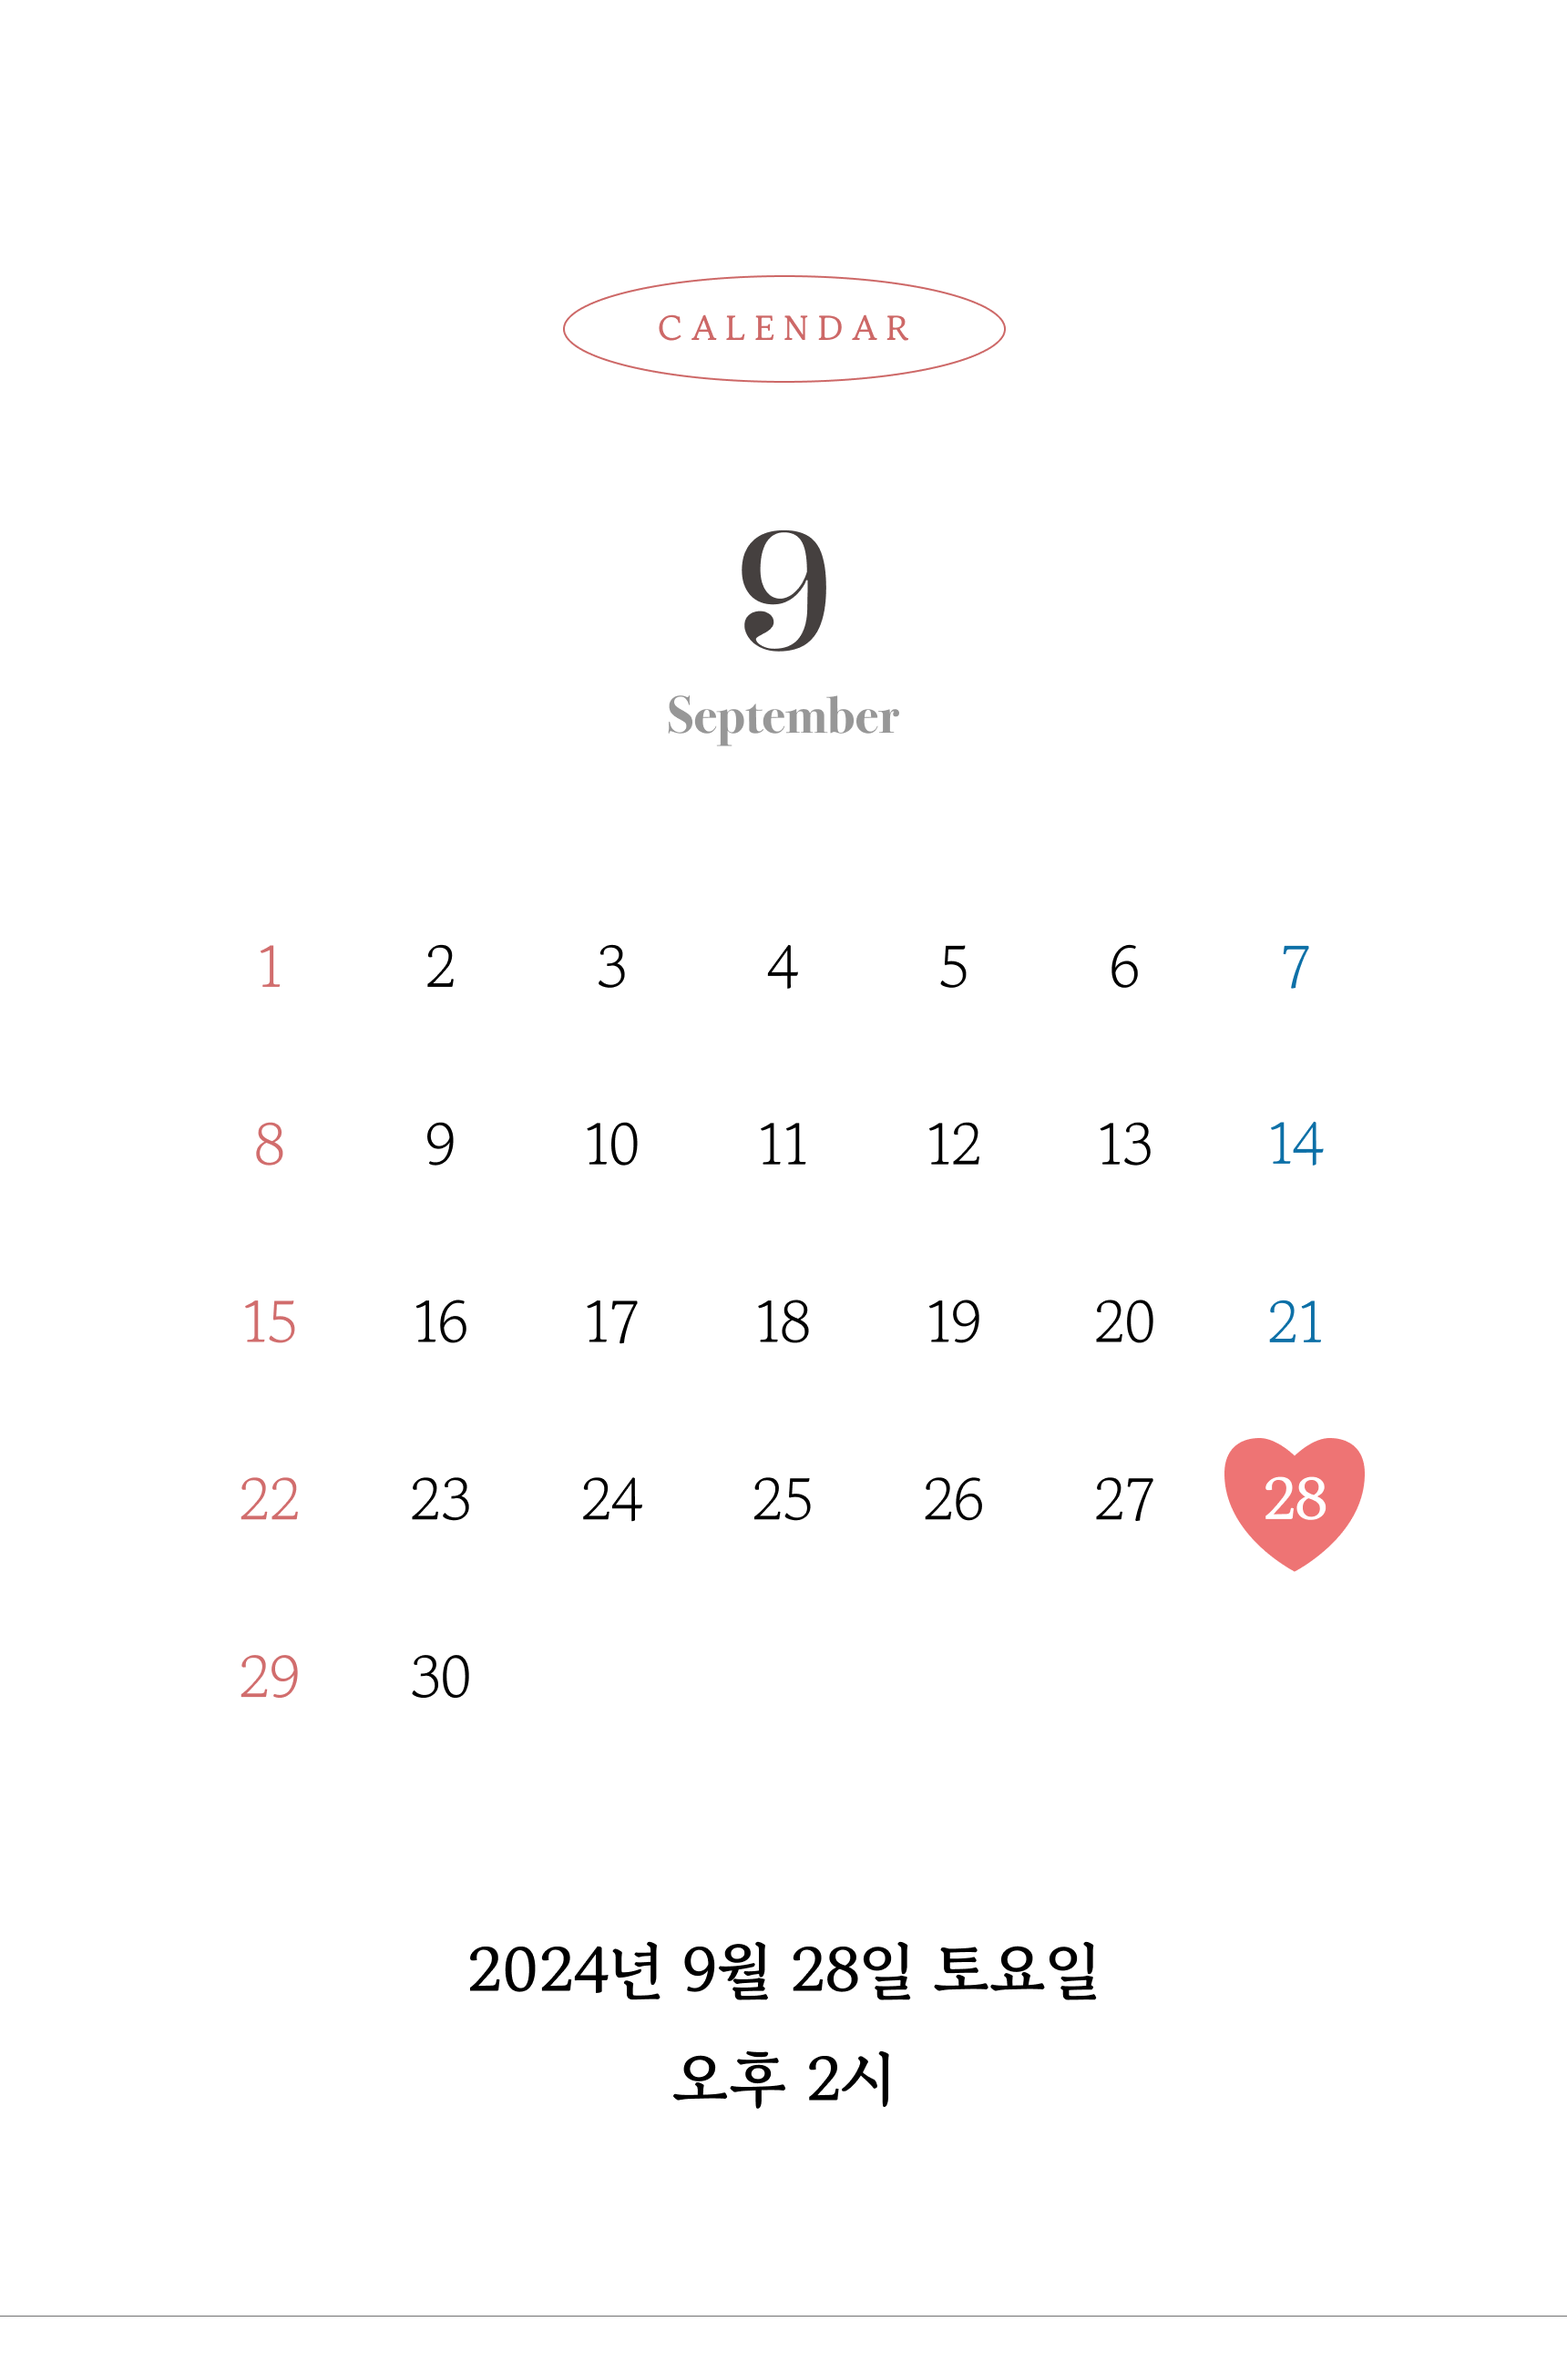
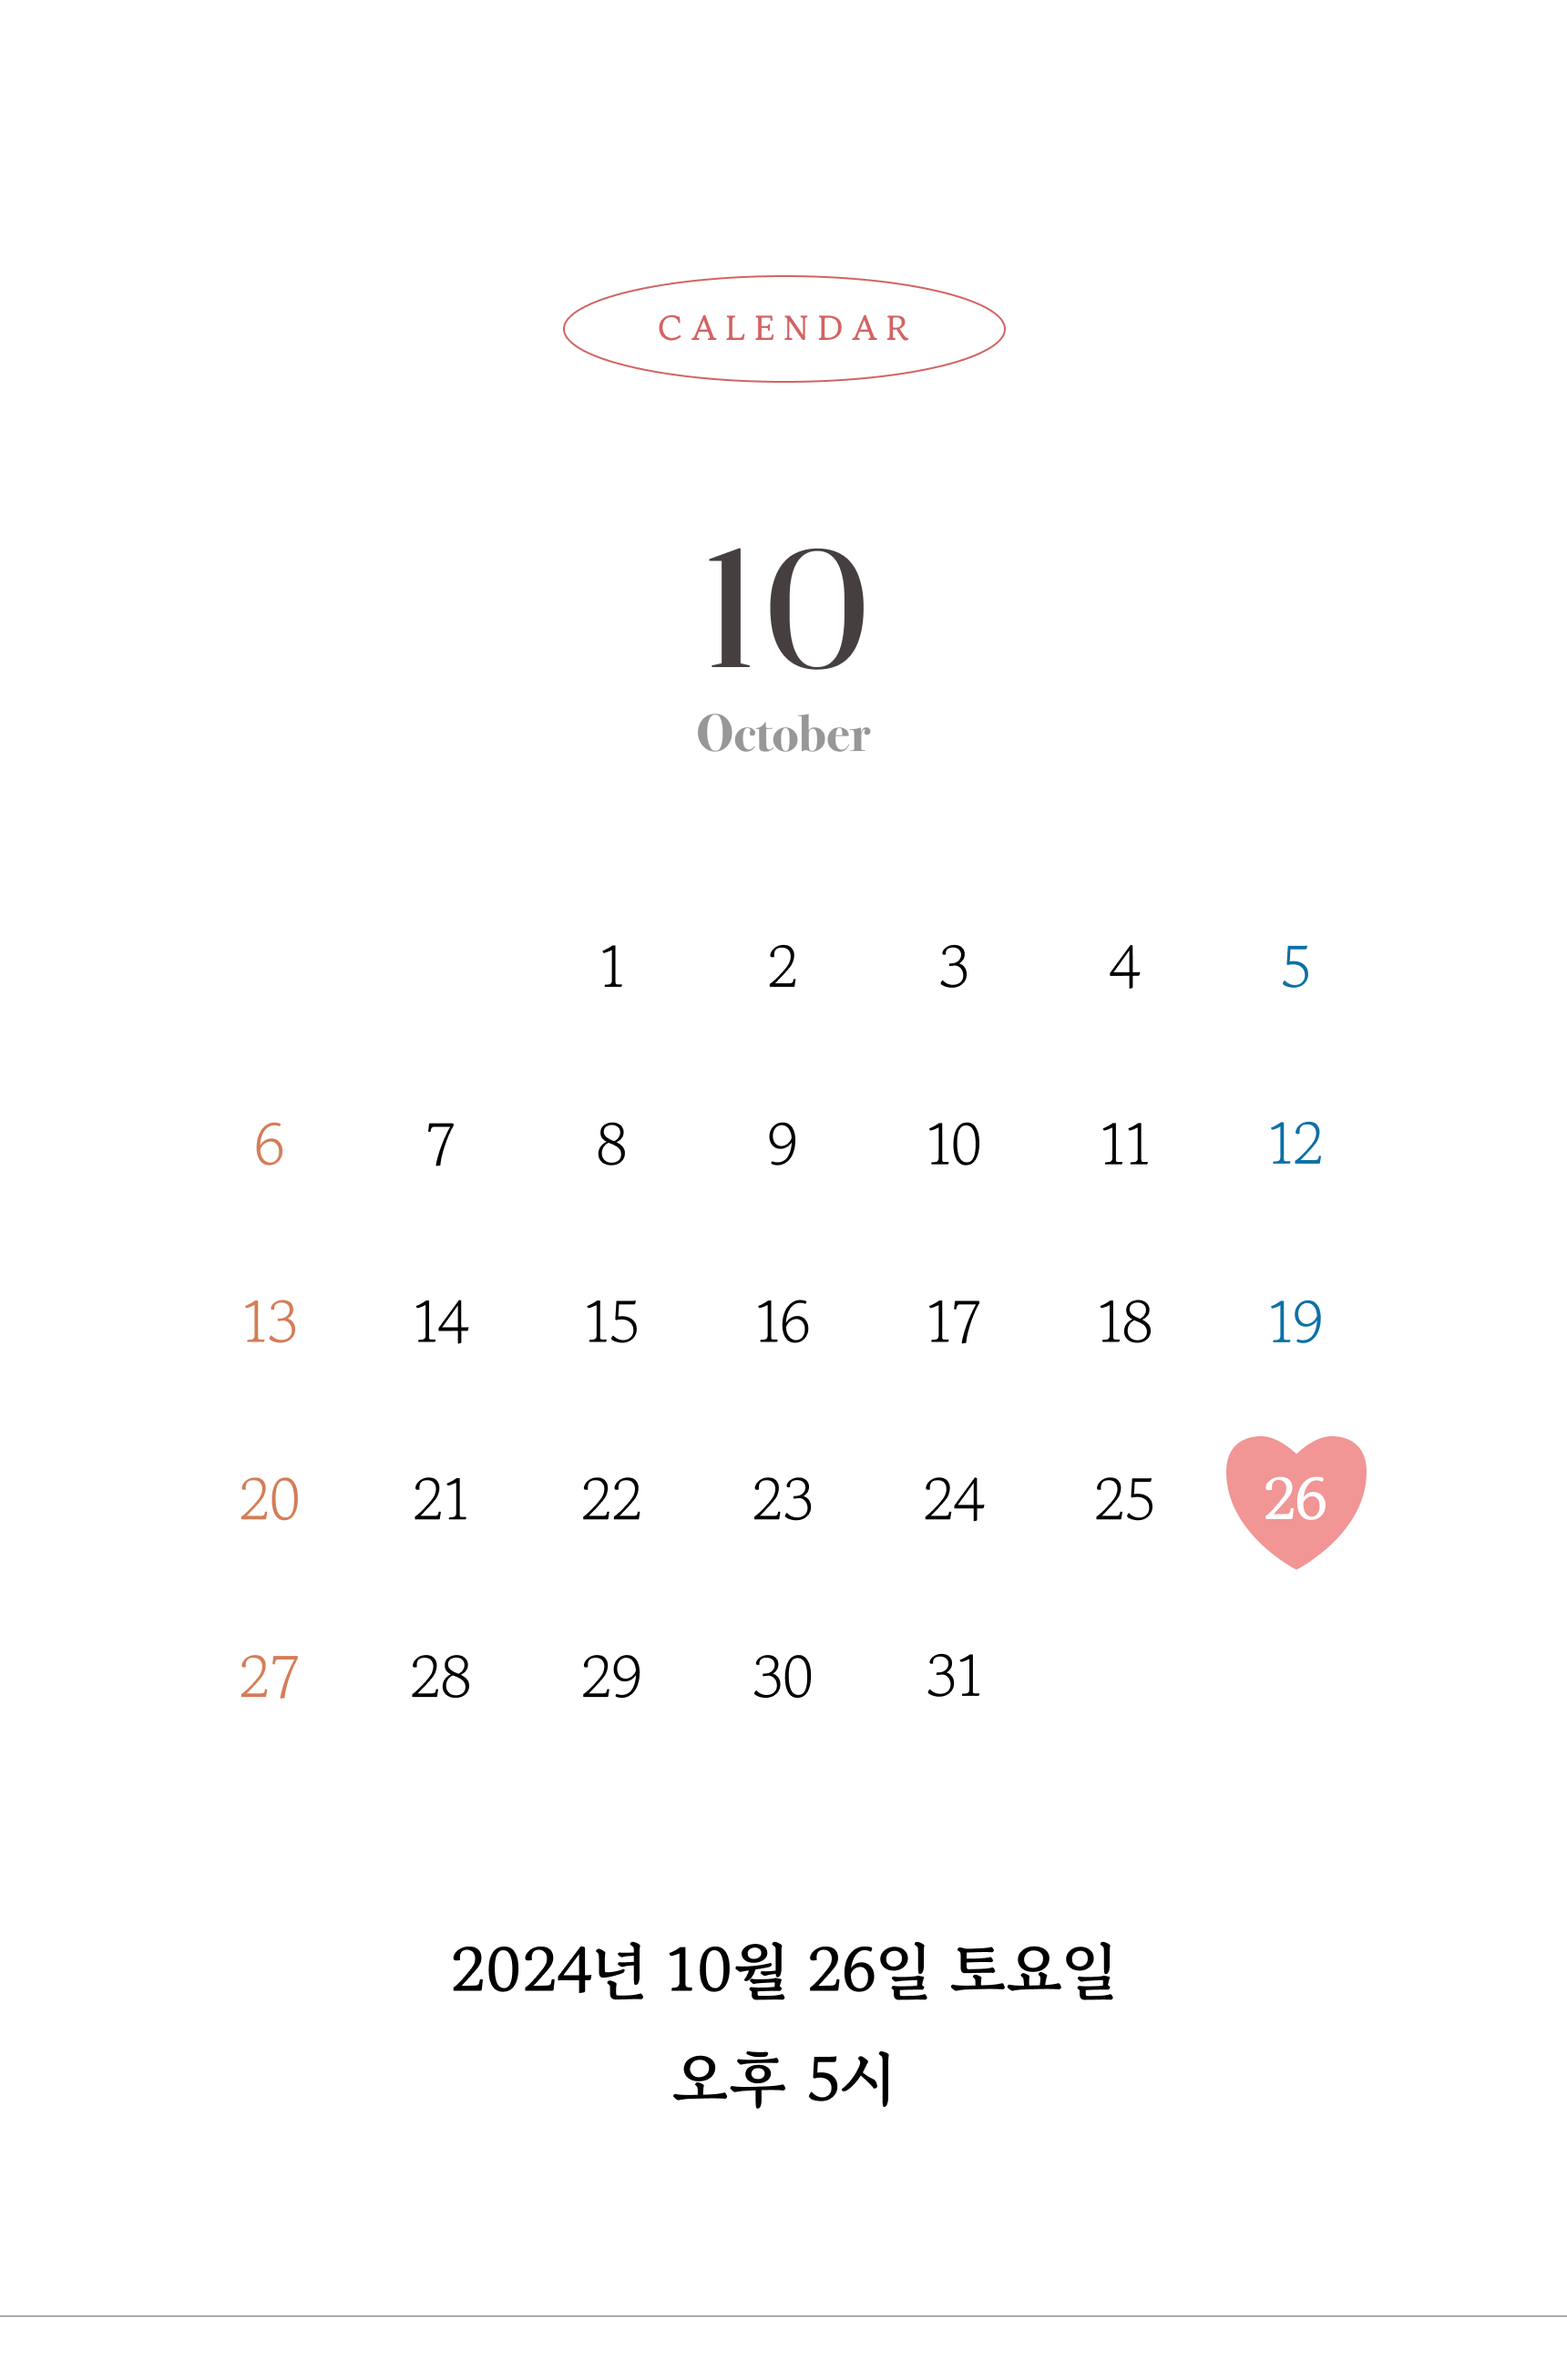
1차제작

diff --git a/index.html b/index.html
@@ -12,8 +12,8 @@
   <meta name="robots" content="index,follow" />
   <meta name="googlebot" content="index,follow" />
   <meta name="description" content="결혼식에 초대합니다♡" />
-  <link rel="canonical" href="https://mo12.luvle.co.kr" />
-  <meta property="og:url" content="https://mo12.luvle.co.kr" />
+  <link rel="canonical" href="https://mo21.luvle.co.kr" />
+  <meta property="og:url" content="https://mo21.luvle.co.kr" />
   <meta property="og:title" content="김용수 ♥ 황혜민의 결혼식에 초대합니다." />
   <meta property="og:description" content="결혼식에 초대합니다♡" />
   <meta property="og:image" content="https://i.imgur.com/XsOP204.png" />
@@ -94,14 +94,14 @@
               </div>
               <div style="line-height: 40px;">
                 <p id="parentInfo">
-                  <span style="font-size: large">최창순 · 김순희</span>
+                  <span style="font-size: large">박주용 · 이종숙</span>
                   <span>
                     <span>의</span>
                     <span style="
                           font-size: large;
                           min-width: 3rem;
                           display: inline-block;
-                        ">장남</span>
+                        ">아들</span>
                   </span>
                   <span style="font-size: large">김용수</span>
                   <span style="
@@ -118,20 +118,20 @@
                     document
                       .getElementById("man-call-button")
                       .addEventListener("click", function () {
-                        var phoneNumber = "010-4931-4227";
+                        var phoneNumber = "010-8544-3717";
                         window.location.href = "tel:" + phoneNumber;
                       });
                   </script>
                 </p>
                 <p id="parentInfo">
-                  <span style="font-size: large">박형숙 · 김경미</span>
+                  <span style="font-size: large">유미영</span>
                   <span>
                     <span>의</span>
                     <span style="
                           font-size: large;
                           min-width: 3rem;
                           display: inline-block;
-                        ">장녀</span>
+                        ">딸</span>
                   </span>
                   <span style="font-size: large">황혜민</span>
                   <span style="
@@ -148,7 +148,7 @@
                     document
                       .getElementById("woman-call-button")
                       .addEventListener("click", function () {
-                        var phoneNumber = "010-4046-4258";
+                        var phoneNumber = "010-9376-1551";
                         window.location.href = "tel:" + phoneNumber;
                       });
                   </script>
@@ -260,21 +260,21 @@
                     text-align: center;
                     line-height: 1.5rem;
                   ">
-                <p>서울특별시 서초구 반포대로 235(효성빌딩)</p>
+                <p>전주시 완산구 기린대로 85</p>
                 <p style="font-weight: 600; color: #000000">
-                  아펠가모 반포점 LL층 단독홀
+                  라한호텔 전주 1층 온고을홀
                 </p>
               </div>
               <div class="weddinghall-call-info">
                 <button id="weddingHallCallButton">
                   <img src="img/call.png" alt="전화" style="width: 10px; height: 10px" />
-                  <p id="weddingHallCallP">02 - 3431 - 0230</p>
+                  <p id="weddingHallCallP">063 - 232 - 7000</p>
                 </button>
                 <script>
                   document
                     .getElementById("weddingHallCallButton")
                     .addEventListener("click", function () {
-                      var phoneNumber = "02-3431-0230";
+                      var phoneNumber = "063-232-7000";
                       window.location.href = "tel:" + phoneNumber;
                     });
                 </script>
@@ -291,8 +291,8 @@
             var mapContainer = document.getElementById("map"), // 지도를 표시할 div
               mapOption = {
                 center: new kakao.maps.LatLng(
-                  37.5006565784759,
-                  127.00320046430859
+                  35.81701200277565,
+                  127.15406119387318
                 ), // 지도의 중심좌표
                 level: 3, // 지도의 확대 레벨
               };
@@ -312,8 +312,8 @@
 
             // 마커가 표시될 위치입니다
             var markerPosition = new kakao.maps.LatLng(
-              37.5006565784759,
-              127.00320046430859
+              35.81701200277565,
+              127.15406119387318
             );
 
             // 마커를 생성합니다
@@ -330,7 +330,7 @@
         <!-- map 길찾기 -->
         <div class="animate-on-scroll" id="MapIconDiv" style="background-color: #CD6867;">
           <div>
-            <a class="maplink" href="https://kko.to/BWQAAWa1qP">
+            <a class="maplink" href="https://kko.to/ByhFDl9nIC">
               <div>
                 <button id="kakaoMapButton" type="button">
                   <!-- <img
@@ -389,8 +389,7 @@
             </button>
             <div class="panel">
               <ul>
-                <li><strong>신랑 김용수 : </strong>국민은행 041301-04-281722</li>
-                <li><strong>혼주 최창순 : </strong>신한은행 110-002-315007</li>
+                <li><strong>신랑 김용수 : </strong>국민은행 506501-04-382678</li>
               </ul>
             </div>
             <button class="accordion relative">
@@ -399,8 +398,7 @@
             </button>
             <div class="panel">
               <ul>
-                <li><strong>신부 황혜민 : </strong>국민은행 788102-01-083962</li>
-                <li><strong>혼주 박형숙 : </strong>농협은행 611041-56-000492</li>
+                <li><strong>신부 황혜민 : </strong>국민은행 762902-01-333869</li>
                 <!-- <li>
                   <strong>신부 아버지</strong><br />농협 301819-52-029714
                   (오석기)
@@ -420,7 +418,7 @@
                   this.classList.toggle("active");
                   var panel = this.nextElementSibling;
                   if (this.classList.contains("active")) {
-                    panel.style.height = "9rem";
+                    panel.style.height = "5rem";
                     panel.style.padding = "5%";
                   } else {
                     panel.style.height = "0rem";
@@ -435,7 +433,7 @@
               <div class="button-container">
                 <button id="snsButton" type="button" class="shareKt">
                   <img src="img/kakaotalk.png" alt="카카오톡" style="width: 25px; height: 25px" />
-                  &nbsp;&nbsp;카카오톡
+                  &nbsp;카카오톡
                 </button>
                 <!-- <button id="snsButton" type="button" class="shareKs">
                   <img
@@ -455,7 +453,7 @@
                 </button> -->
                 <button id="snsButton" type="button" class="shareTwoG">
                   <img src="img/smstalk.png" alt="문자전송" style="width: 25px; height: 25px" />
-                  &nbsp;&nbsp;2G 휴대폰 전송
+                  &nbsp;2G 휴대폰 전송
                 </button>
               </div>
             </div>

diff --git a/gallery.js b/gallery.js
@@ -52,16 +52,16 @@ window.onload = () => {
         imageWidth: 1200,
         imageHeight: 630,
         link: {
-          mobileWebUrl: "https://mo12.luvle.co.kr",
-          webUrl: "https://mo12.luvle.co.kr",
+          mobileWebUrl: "https://mo21.luvle.co.kr",
+          webUrl: "https://mo21.luvle.co.kr",
         },
       },
       buttons: [
         {
           title: "자세히 보기",
           link: {
-            mobileWebUrl: "https://mo12.luvle.co.kr",
-            webUrl: "https://mo12.luvle.co.kr",
+            mobileWebUrl: "https://mo21.luvle.co.kr",
+            webUrl: "https://mo21.luvle.co.kr",
           },
         },
       ],

diff --git a/countdown.js b/countdown.js
@@ -1,7 +1,7 @@
 document.addEventListener("DOMContentLoaded", function () {
   function updateCountdown() {
     // 결혼 날짜 설정 (년, 월(0부터 시작), 일, 시, 분)
-    const weddingDate = new Date(2024, 8, 28, 14, 00); // 예시: 2024년 10월 12일
+    const weddingDate = new Date(2024, 9, 26, 17, 00); // 예시: 2024년 10월 12일
 
     const currentDate = new Date();
     const timeDifference = weddingDate - currentDate;
